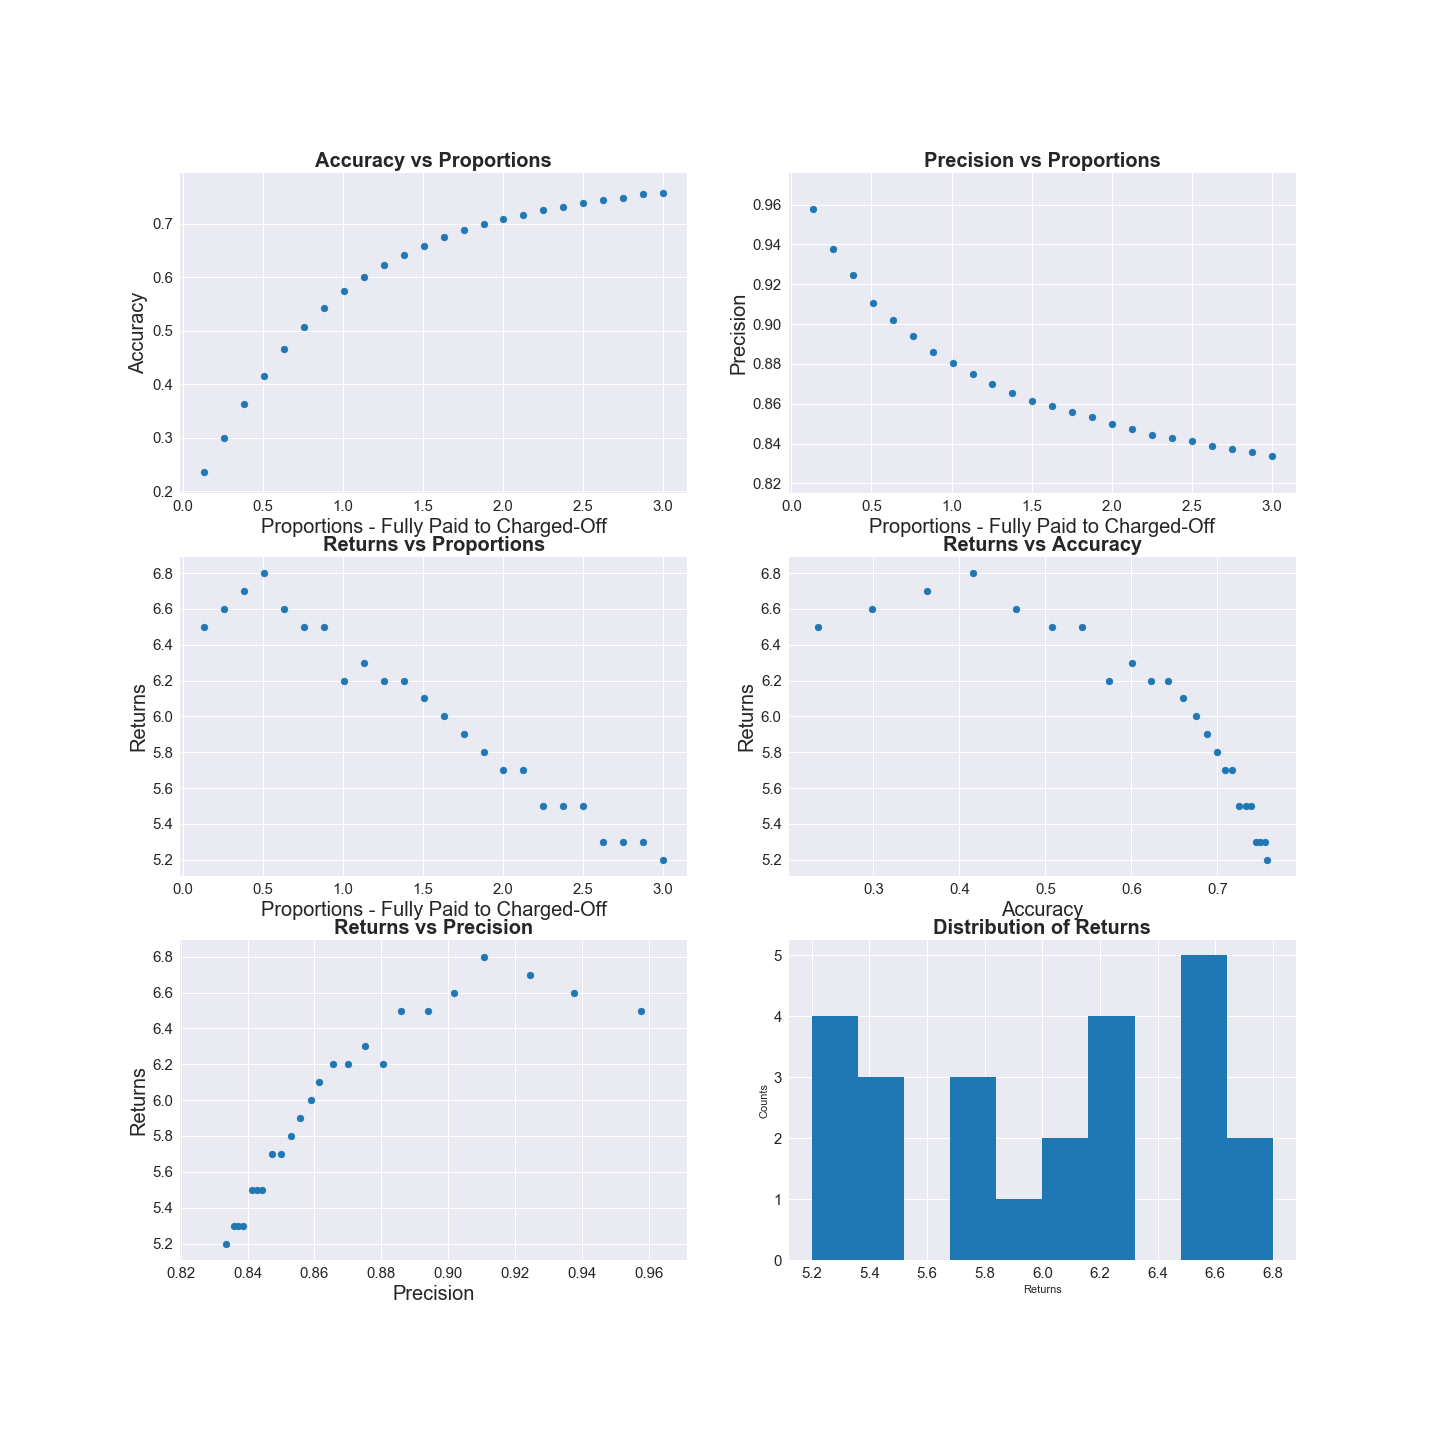
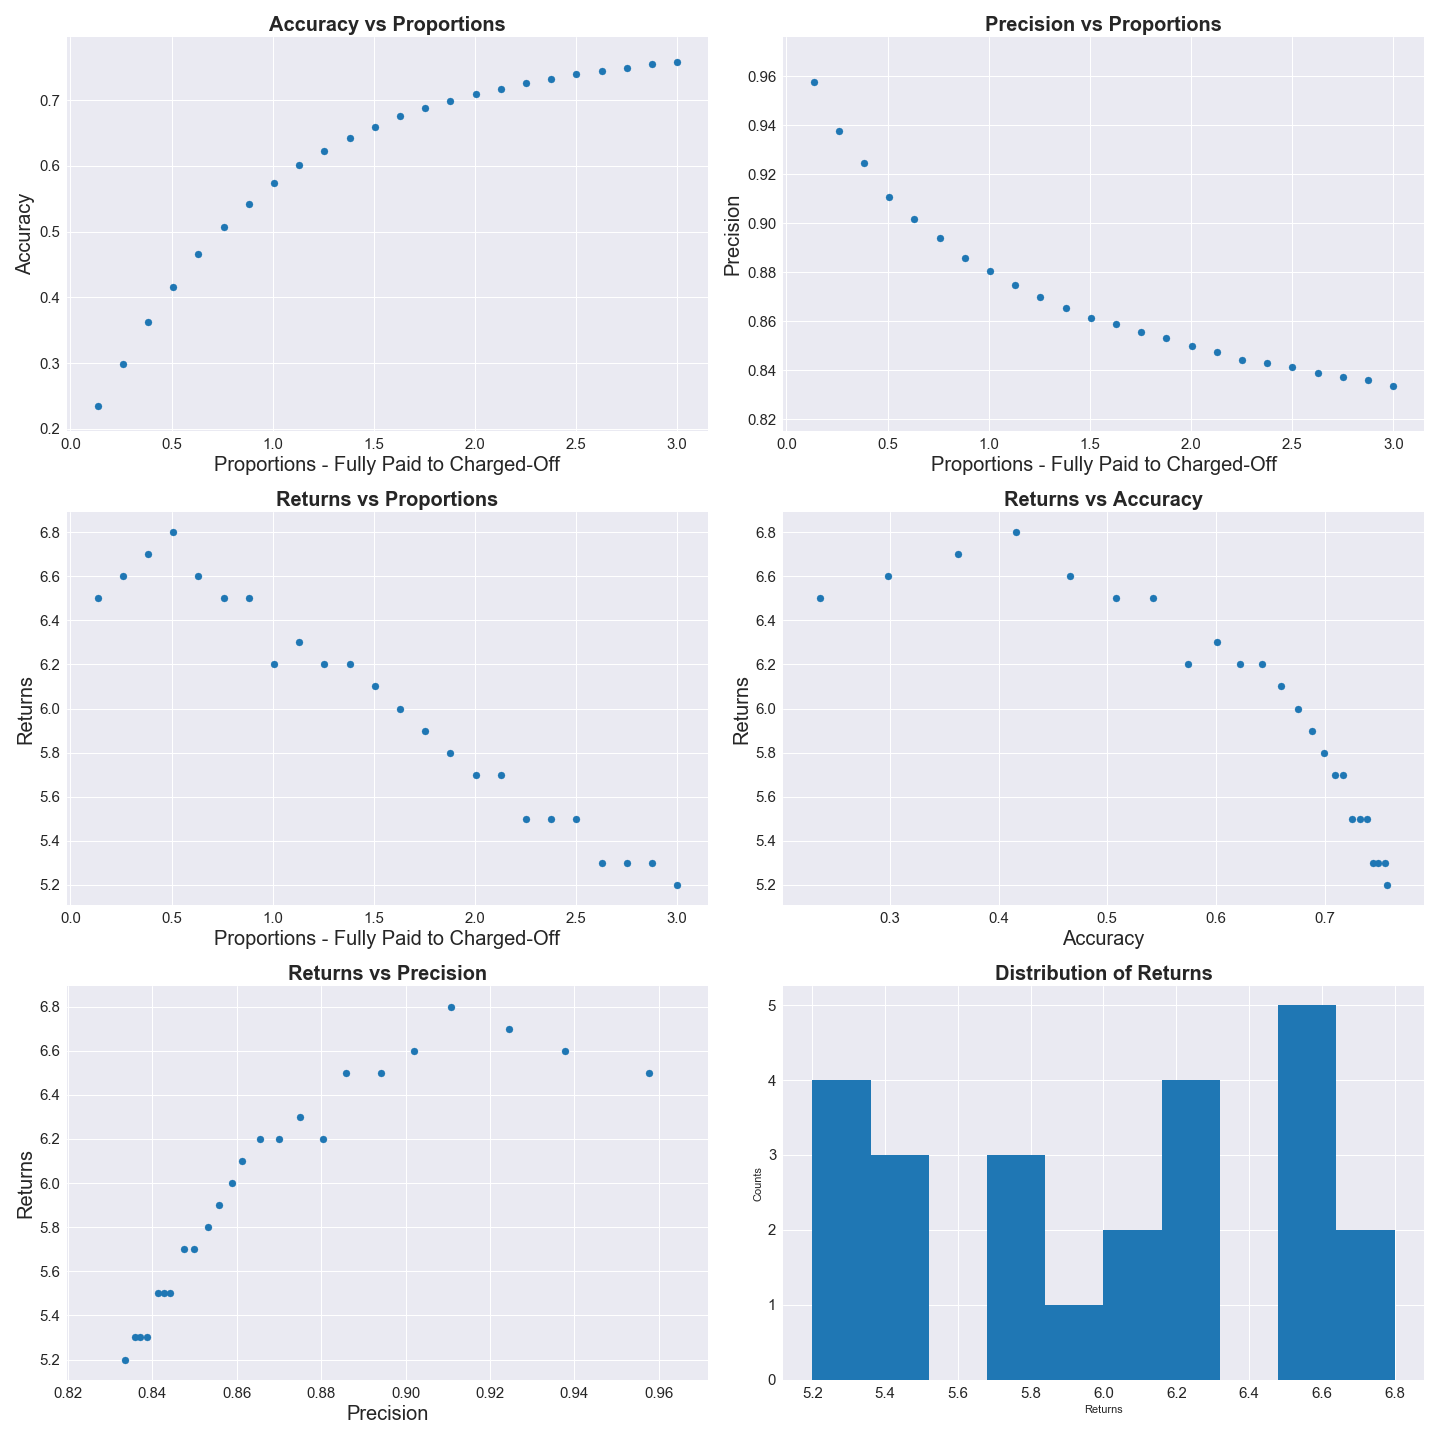
afasf

diff --git a/src/LC_Plotter.py b/src/LC_Plotter.py
@@ -325,4 +325,5 @@ def lc_choose_proportion(df):
     plt.xlabel('Returns')
     plt.ylabel('Counts')
     plt.title('Distribution of Returns',fontsize=20,fontweight='bold')
+    plt.tight_layout()
     plt.savefig('images/proportion_eval.png')
